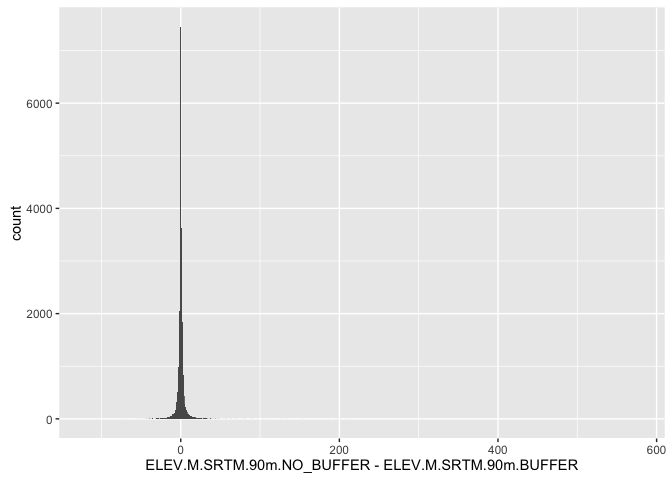
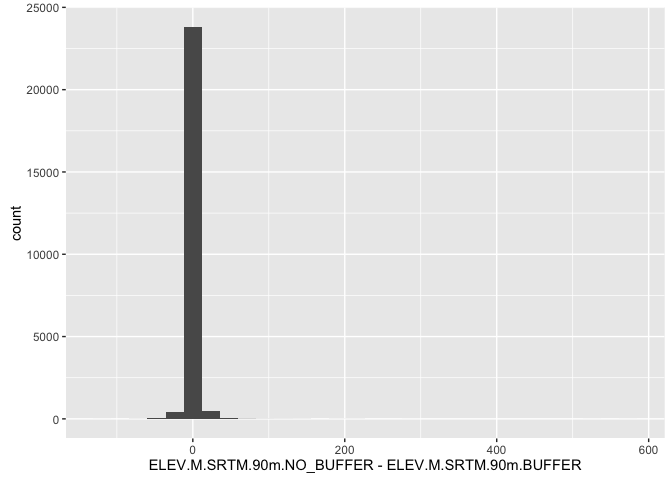
Minor enhancements and changes to fetch_isd-history.Rmd

diff --git a/data-raw/fetch_isd-history.md b/data-raw/fetch_isd-history.md
@@ -96,24 +96,24 @@ Data can be downloaded from the [CGIAR-CSI's](http://csi.cgiar.org/WhtIsCGIAR_CS
 
 # create spatial object to check for location
 xy <- as.data.frame(xy)
-sp::coordinates(xy) <- ~LON + LAT
+sp::coordinates(xy) <- ~ LON + LAT
 sp::proj4string(xy) <- sp::CRS(crs)
 
 # check for location in country
 point_check <- sp::over(xy, NE)
 point_check <- as.data.frame(point_check)
-stations_discard <- point_check[point_check$FIPS %in% point_check$FIPS_10_ == FALSE, ]
-nrow(stations_discard)
+stn_discard <- point_check[point_check$FIPS %in% point_check$FIPS_10_ == FALSE, ]
+nrow(stn_discard)
 ```
 
     ## [1] 0
 
-``` r
-# 0 observations in stations_discard, the data look good, no need to remove any
+Zero observations (rows) in stations\_discard, the data look good, no need to remove any
 
+``` r
 # create a spatial object for extracting elevation values using spatial points
 stations <- as.data.frame(stations)
-sp::coordinates(stations) <- ~LON + LAT
+sp::coordinates(stations) <- ~ LON + LAT
 sp::proj4string(stations) <- sp::CRS(crs)
 
 for (i in dem_tiles) {
@@ -218,15 +218,14 @@ Assuming that a 10m difference in elevation between the buffered and unbuffered 
 
 ``` r
 ggplot(data = stations) +
-  geom_histogram(aes(ELEV.M.SRTM.90m.NO_BUFFER - ELEV.M.SRTM.90m.BUFFER),
-                 binwidth = 1)
+  geom_histogram(aes(ELEV.M.SRTM.90m.NO_BUFFER - ELEV.M.SRTM.90m.BUFFER))
 ```
 
-![Histogram of CGIAR-CSI SRTM Buffered Elevation versus CGIAR-CSI SRTM 90m](fetch_isd-history_files/figure-markdown_github/Hist%20difference%20SRTM%2090m%20vs%20Buffered%20SRTM%2090m-1.png)
+![Histogram plot of CGIAR-CSI SRTM Buffered Elevation versus CGIAR-CSI SRTM 90m](fetch_isd-history_files/figure-markdown_github/Hist%20difference%20SRTM%2090m%20vs%20Buffered%20SRTM%2090m-1.png)
 
-The differences between the buffered and unbuffered elevation checks are minor and appear to be normally distributed while also not showing any discernable geographic pattern. To help avoid within cell and between cell variation the buffered values are the values that are included in the final data for distribution with the GSODR package following the approach of Hijmans *et al.* (2005). The new field is simply called ELEV.M.SRTM.90m in the stations.rda file.
+The differences between the buffered and unbuffered elevation checks are minor and appear to be normally distributed while also not showing any discernable geographic pattern. However, The buffered elevation data are higher than the unbuffered data. To help avoid within cell and between cell variation the buffered values are the values that are included in the final data for distribution with the GSODR package following the approach of Hijmans *et al.* (2005). The new field is simply called ELEV.M.SRTM.90m in the stations.rda file.
 
-    ## logical(0)
+    ## [1] TRUE TRUE TRUE TRUE TRUE TRUE TRUE
 
 Notes
 =====
@@ -255,18 +254,20 @@ R System Information
     ## [1] ggalt_0.1.1   ggplot2_2.1.0
     ## 
     ## loaded via a namespace (and not attached):
-    ##  [1] Rcpp_0.12.5        knitr_1.13         magrittr_1.5      
-    ##  [4] devtools_1.11.1    maps_3.1.0         MASS_7.3-45       
-    ##  [7] munsell_0.4.3      colorspace_1.2-6   R6_2.1.2          
-    ## [10] stringr_1.0.0      plyr_1.8.3         dplyr_0.4.3       
-    ## [13] tools_3.3.0        parallel_3.3.0     grid_3.3.0        
-    ## [16] gtable_0.2.0       ash_1.0-15         KernSmooth_2.23-15
-    ## [19] DBI_0.4-1          withr_1.0.1        htmltools_0.3.5   
-    ## [22] lazyeval_0.1.10    assertthat_0.1     yaml_2.1.13       
-    ## [25] digest_0.6.9       proj4_1.0-8        RColorBrewer_1.1-2
-    ## [28] formatR_1.4        memoise_1.0.0      evaluate_0.9      
-    ## [31] rmarkdown_0.9.6    labeling_0.3       stringi_1.1.1     
-    ## [34] scales_0.4.0
+    ##  [1] Rcpp_0.12.5        formatR_1.4        RColorBrewer_1.1-2
+    ##  [4] plyr_1.8.3         tools_3.3.0        digest_0.6.9      
+    ##  [7] memoise_1.0.0      evaluate_0.9       gtable_0.2.0      
+    ## [10] lattice_0.20-33    DBI_0.4-1          curl_0.9.7        
+    ## [13] yaml_2.1.13        rgdal_1.1-10       parallel_3.3.0    
+    ## [16] withr_1.0.1        dplyr_0.4.3        stringr_1.0.0     
+    ## [19] raster_2.5-2       knitr_1.13         maps_3.1.0        
+    ## [22] devtools_1.11.1    grid_3.3.0         R6_2.1.2          
+    ## [25] rmarkdown_0.9.6    sp_1.2-3           readr_0.2.2       
+    ## [28] magrittr_1.5       scales_0.4.0       htmltools_0.3.5   
+    ## [31] MASS_7.3-45        assertthat_0.1     proj4_1.0-8       
+    ## [34] countrycode_0.18   colorspace_1.2-6   labeling_0.3      
+    ## [37] KernSmooth_2.23-15 ash_1.0-15         stringi_1.1.1     
+    ## [40] lazyeval_0.1.10    munsell_0.4.3
 
 References
 ==========
